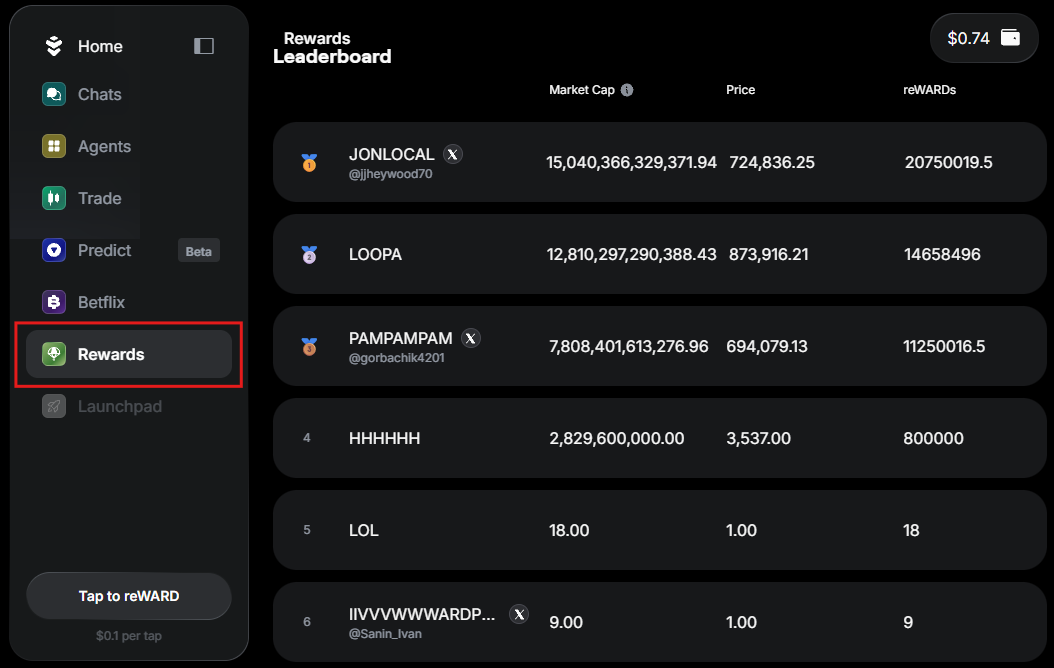
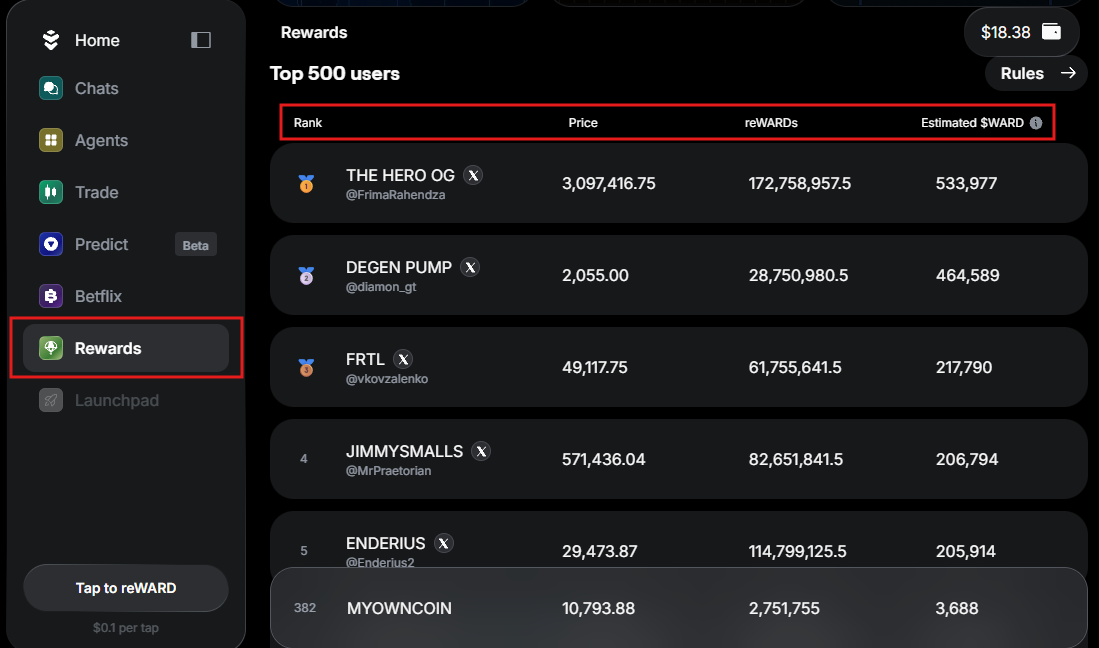
added info about the new rewards campaign

diff --git a/docs/help-center/docs/warden-app/earn-rewards.md b/docs/help-center/docs/warden-app/earn-rewards.md
@@ -10,7 +10,8 @@ In this section, you'll discover how to start **earning rewards** in Warden:
 
 1. [Create a coin](#create-your-coin): Create your own coin.
 2. [Earn reWARD points](#earn-reward-points): Stay active in Warden to boost your coin's rank.
-3. [Get rewards](#get-rewards): The top reWARD holders will be rewarded.
+3. [Check you rank](#check-your-rank): Check your rank on the leaderboard.
+3. [Get $WARD](#get-ward): The most active users will be rewarded with $WARD.
 
 ## Create your coin
 
@@ -26,15 +27,21 @@ Congratulations! Now you can start earning reWARD points.
 
 ## Earn reWARD points
 
-### Check your rank
+### reWARDs
 
-**reWARD points** are your reward for activity in Warden. The more reWARDs you earn, the higher your coin climbs on the leaderboard.
+In Warden, you can earn **reWARD points**—your reward for activity in the application.
 
-The top reWARD holders will [be rewarded](#get-rewards).
+There are multiple ways to earn reWARDs:
 
-To check your coin's rank, open the **Rewards** tab and scroll down to the **reWARD Leaderboard**:
+- [Complete tasks](#complete-tasks)
+- [Tap to reWARD](#tap-to-reward)
+- [Trade](#trade)
 
-![View the reWARD leaderboard in Warden](../../static/img/warden-app/earn-rewards-2.png)
+The more reWARDs you earn, the higher [your coin](#create-your-coin) climbs on the [leaderboard](#check-your-rank).
+
+:::note
+Your rank also depends on [fees](fees) your pay in Warden. To learn how exactly the rank and $WARD rewards are calculated, see [Get $WARD](#get-ward).
+:::
 
 ### Complete tasks
 
@@ -72,8 +79,41 @@ You can either participate in perpetual trading or play our trading game:
 - [Trade](trade#earn-rewards)
 - [Play Betflix](play-betflix#earn-rewards)
 
-## Get rewards
+## Check your rank
 
-The most active Warden users will gain priority access to upcoming features and other rewards.
+All [coins](#create-your-coin) compete on the **leaderboard**. The top users will be rewarded with [$WARD](https://docs.wardenprotocol.org/ward/introduction).
 
-Keep [earning reWARDs](#earn-reward-points) and stay tuned for updates!
+You position depends on the amount of [reWARDs](#rewards) you earned and [fees](fees) you paid in Warden. To learn how exactly the rank and $WARD rewards are calculated, see [Get $WARD](#get-ward).
+
+The leaderboard displays the following information:
+
+- Your coin's rank
+- The number of reWARDs you earned
+- The estimated $WARD reward
+
+To access this data, open the **Rewards** section and scroll down to the leaderboard:
+
+![View the reWARD leaderboard in Warden](../../static/img/warden-app/earn-rewards-2.png)
+
+## Get $WARD
+
+The most active Warden users will be rewarded with [$WARD](https://docs.wardenprotocol.org/ward/introduction). In the current season, we'll distribute **5,000,000 $WARD** to the **top 500** users on [leaderboard](#check-your-rank).
+
+$WARD distribution is based on your [reWARD points](#rewards) and [fees](fees). Note that you're competing on your share of total system activity and fees, not on absolute numbers. For example, if everyone trades more, your share can drop.
+
+:::tip
+To learn more about fees in Warden, see [Fees](fees).
+:::
+
+Your estimated **$WARD reward** is displayed on the leaderboard. This number is calculated from two values:
+
+- **70% of your fees** divided by total fees
+- **30% of your reWARDs** divided by total reWARDs
+
+The $WARD amount you'll get is a sum of these values multiplied by 5,000,000.
+
+:::note
+If you have **8% of total fees** and **10% of total reWARDs**, then your total share = 8% × 70% + 10% × 30% = 5.6% + 3% = **8.6% of the pool**.
+
+![Reward formula for the Warden leaderboard](../../static/img/warden-app/earn-rewards-5.png)
+:::

diff --git a/docs/help-center/docs/warden-app/trade.md b/docs/help-center/docs/warden-app/trade.md
@@ -285,7 +285,7 @@ The market data for the chart and order book is provided by [Hyperliquid](https:
 
 ### Earn reWARDs
 
-Once your all-time total trade volume reaches **$100**, you qualify to join the **League of Traders** and start receiving [reWARDs](earn-rewards#earn-reward-points)—points that reward your activity in Warden.
+Once your all-time total trade volume reaches **$100**, you qualify to join the **League of Traders** and start receiving [reWARDs](earn-rewards#rewards)—points that reward your activity in Warden.
 
 You earn rewards for every position closed within a **15-minute** cycle (when reWARDs are distributed):
 

diff --git a/docs/help-center/docs/warden-app/play-betflix.md b/docs/help-center/docs/warden-app/play-betflix.md
@@ -51,7 +51,7 @@ To start playing, you need **USDC on Solana** (**$6** or more):
 
 By playing Betflix, you join the **League of Traders**: each swipe contributes to your **hourly**, **daily**, and **weekly** rankings, based on profit and streaks.
 
-Top traders earn [reWARDs](earn-rewards#earn-reward-points)—points that reward your activity in Warden:
+Top traders earn [reWARDs](earn-rewards#rewards)—points that reward your activity in Warden:
 
 - Hourly league: 1st–3rd ranks
 - Daily league: 1st–5th ranks

diff --git a/docs/help-center/docs/warden-app/whats-new.md b/docs/help-center/docs/warden-app/whats-new.md
@@ -8,6 +8,13 @@ sidebar_position: 13
 
 Here you'll find the latest Warden release highlights, including new features, improvements, and bug fixes. This section helps you quickly see what's changed and how it can enhance your experience.
 
+## March 17, 2026
+
+**New features**:
+
+- [Earn rewards](earn-rewards): Updated the leaderboard to support the new [reward campaign](earn-rewards#get-ward).
+- Other: Added internal changes in preparation upcoming features.
+
 ## March 11, 2026
 
 **Fixes**:
